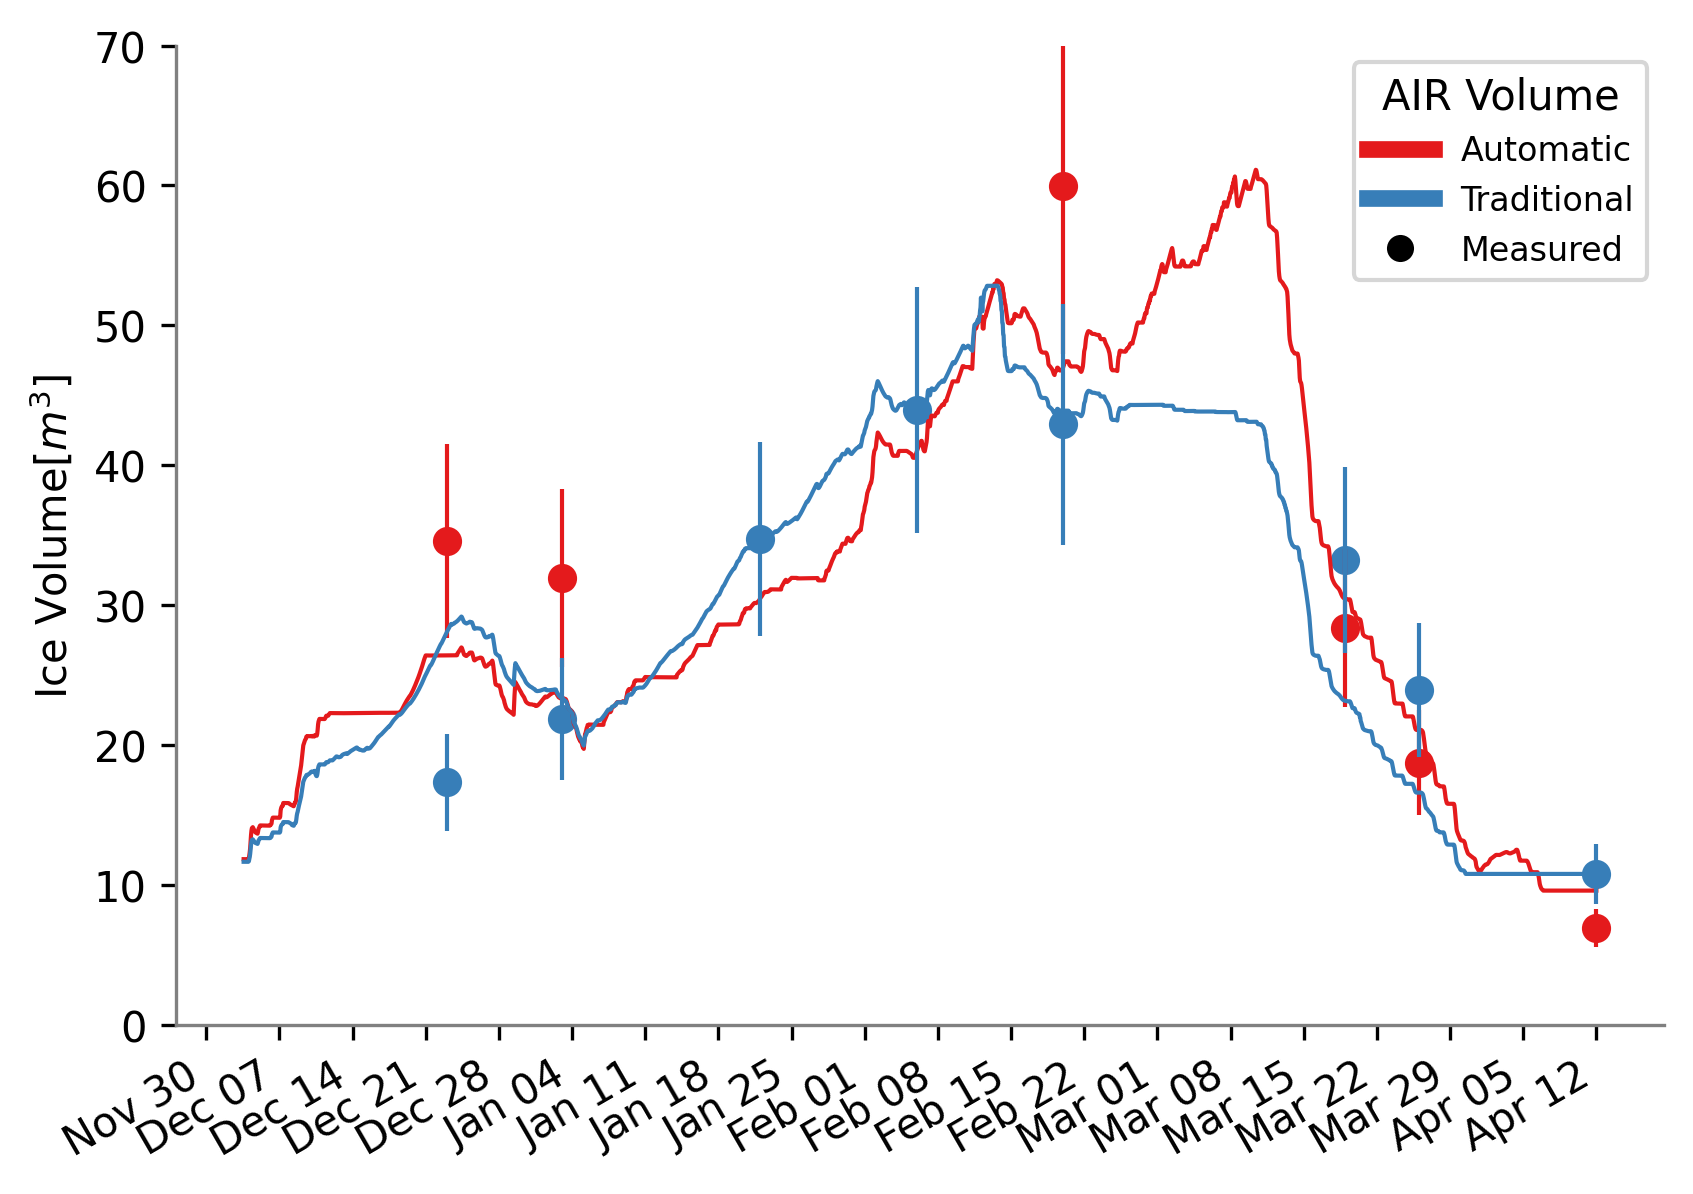
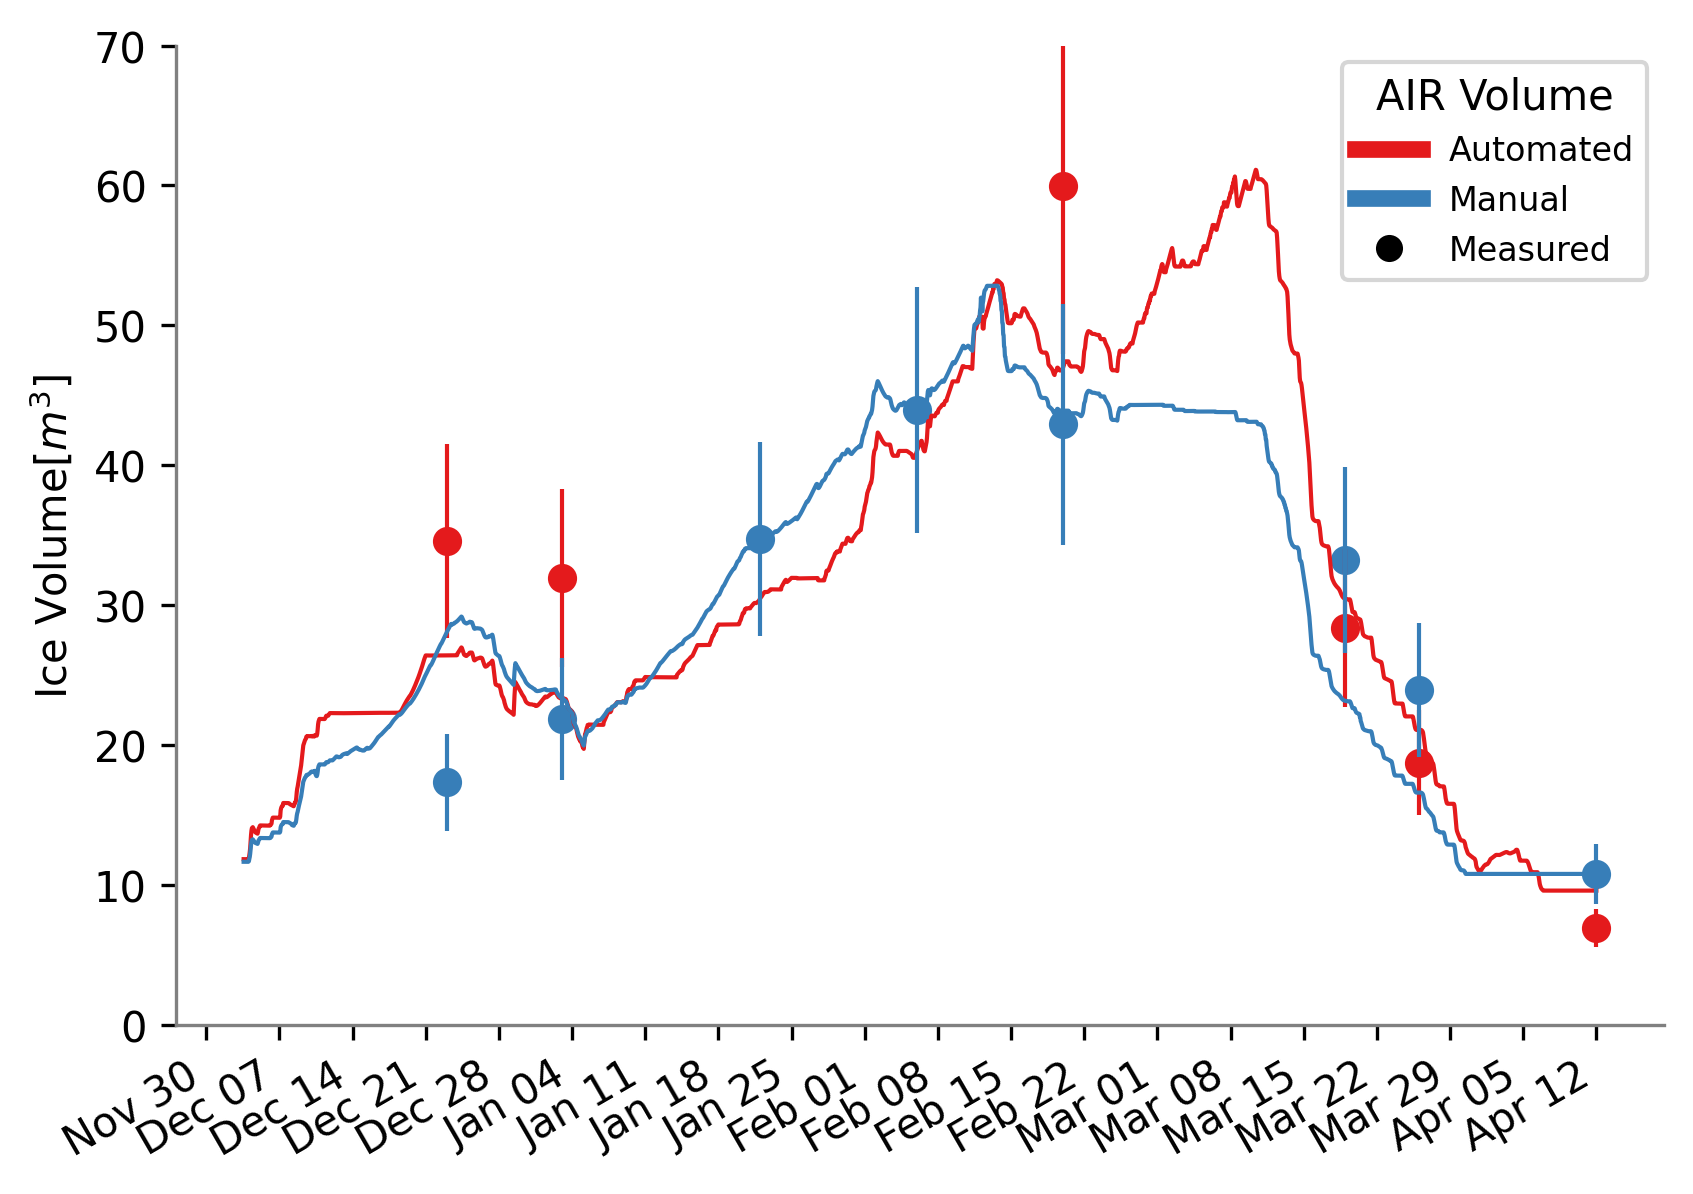
Changed Traditional to manual

Changed region(s): [[0.7679, 0.062, 0.9829, 0.2169]]

diff --git a/ice-reservoirs/content/chapter4-technology.tex b/ice-reservoirs/content/chapter4-technology.tex
@@ -18,7 +18,7 @@ high-altitude glaciers. This results in increased demand during a period of redu
 agricultural season.
 
 These trends stress the importance of increased water storage capacity for glacierized catchments as a pathway
-for climate adaptation. Because of the challenges and cost related to traditional storage efforts, AIRs can be
+for climate adaptation. Because of the challenges and cost related to manual storage efforts, AIRs can be
 a better tool to adapt against reduced glacial runoff. 
 
 AIRs, located at much lower altitudes than naturally occuring glaciers, serve to bridge the critical gap in
@@ -183,7 +183,7 @@ enough might lead to underwatering and can cause reduced ice volume. The managem
 differs based on the type of the AIR used. The following analysis only considers the ice stupa
 form of AIRs where water supply management can also be referred to as fountain scheduling.
 
-Paper I has shown that traditional ice stupa construction systems suffer from overwatering. For example, in
+Paper I has shown that manual ice stupa construction systems suffer from overwatering. For example, in
 Indian AIRs, the fountain discharge rate could theoretically be halved since it is always twice as high as the
 modelled freezing rate. However, in practice, the reduction of discharge rate could increase maintenance costs
 due to higher risk of freezing events in the fountain pipeline.
@@ -199,7 +199,7 @@ of scheduled fountains via automation systems is preferred to reduce long-term m
 hardware used to implement such an automation system is described in paper II.
 
 This section aims to compare the water-use efficiency, maximum ice volume and maintenance effort between
-traditional and automated construction strategies. First, two AIRs were built in the same location but with and
+manual and automated construction strategies. First, two AIRs were built in the same location but with and
 without automated fountain scheduling strategies; both were measured and compared (Fig. \ref{fig:autovsman}).
 The associated datasets and the methods used to analyze them are described in paper II. In a second step,
 differences in construction strategies between the Indian and Swiss AIRs studied in previous winters were quantified
@@ -207,7 +207,7 @@ using model simulations.
 
 \begin{figure}[htb]
 	\includegraphics[width=\textwidth]{figs/AIR_fountains.jpg}
-	\caption{Unscheduled and scheduled fountains used for construction of traditional and automated AIRs at
+	\caption{Unscheduled and scheduled fountains used for construction of manual and automated AIRs at
 		Guttannen. Photo: Daniel Bürki.}
 	\label{fig:autovsman}
 \end{figure}
@@ -273,14 +273,14 @@ freezing events:
 
 \end{itemize}
 
-\subsection{Comparison of traditional and automated construction strategies}
+\subsection{Comparison of manual and automated construction strategies}
 
 \begin{figure*}[htb] \includegraphics[width=\textwidth] {figs/CH_validation.png} \caption{Volume validation of the
 		scheduled and unscheduled fountain construction strategies.} \label{fig:validation} \end{figure*}
 
 Fountain scheduling reduced the fountain discharge input and fountain wastewater output by an order of
 magnitude. However, this does not result in an appreciable difference in the volume evolution of the automated
-or traditional AIR, as shown in Fig. \ref{fig:validation}. This is due to two counteracting surface processes
+or manual AIR, as shown in Fig. \ref{fig:validation}. This is due to two counteracting surface processes
 during fountain spray: process A consists in the dampening of albedo to ice albedo and process B consists in the
 absorption of heat energy from the fountain water droplets. The temporal variation of the magnitude of these
 processes is shown in Fig. \ref{fig:dis_processes}.
@@ -324,6 +324,6 @@ the fountain pipeline. Therefore, the discharge duration of the unscheduled foun
 lower ice volume. The water-sensitive fountain underestimated the freezing rate during the construction period
 and therefore produced much lower ice volume compared with the weather-sensitive fountain.
 
-For the Swiss locations, scheduled fountains yielded better water-use efficiency but did not significantly alter the maximum
-volume obtained.
+For the Swiss locations, scheduled fountains yielded better water-use efficiency but did not significantly alter
+the maximum volume obtained.
 

diff --git a/ice-reservoirs/content/chapter3-science.tex b/ice-reservoirs/content/chapter3-science.tex
@@ -45,8 +45,8 @@ construction strategy used, prefix of the country code and the suffix of the yea
 (Tab. \ref{tab:AIRs}). The construction strategies are distinguished based on whether they used fountain scheduling
 strategies to regulate water supply. Fountain scheduling was realized through a control valve that was automated
 with optimal discharge rates computed using real-time meteorological input and location metadata. Those that did were
-codenamed "automated" whereas the rest were codenamed "traditional". All except one construction campaign used
-traditional construction strategies. Therefore, traditional \ac{AIRs} are referred to without explicitly
+codenamed "automated" whereas the rest were codenamed "manual". All except one construction campaign used
+manual construction strategies. Therefore, manual \ac{AIRs} are referred to without explicitly
 specifying their construction strategy.
 
 In total, 23 \ac{AIRs} were studied in these two regions across four winters.  However, only four \ac{AIRs} located in
@@ -140,10 +140,10 @@ the observed ice radius formed from the fountain water droplets is denoted as sp
 		\hline
 		\textbf{Name}    & \textbf{Start Date} & \textbf{Expiry Date} & \textbf{No. of flights} & \textbf{Spray
 		radius}                                                                                                 \\ \hline
-		Traditional CH20 & Jan 3 2020          & Apr 6 2020           & 2                       & 7.7 $m$       \\
-		Traditional CH21 & Nov 22 2020         & May 10 2021          & 8                       & 6.9 $m$       \\
-		Traditional IN21 & Jan 18 2021         & June 20 2021         & 6                       & 10.2 $m$      \\
-		Traditional CH22 & Dec 8 2021          & April 12 2022        & 8                       & 4.1 $m$       \\
+		Manual CH20 & Jan 3 2020          & Apr 6 2020           & 2                       & 7.7 $m$       \\
+		Manual CH21 & Nov 22 2020         & May 10 2021          & 8                       & 6.9 $m$       \\
+		Manual IN21 & Jan 18 2021         & June 20 2021         & 6                       & 10.2 $m$      \\
+		Manual CH22 & Dec 8 2021          & April 12 2022        & 8                       & 4.1 $m$       \\
 		Automated CH22   & Dec 8 2021          & April 12 2022        & 6                       & 4.8 $m$       \\ \hline
 	\end{tabular}
 \end{table}
@@ -258,7 +258,7 @@ Upward and downward fluxes relative to the ice surface are positive and negative
 is the energy change of the surface layer, which can be translated into a phase change energy should phase
 changes occur. $q_{SW}$ is the net shortwave radiation; $q_{LW}$ is the net longwave radiation; $q_{L}$ and
 $q_{S}$ are the turbulent latent and sensible heat fluxes. $q_{F}$ and $q_{R}$ represent the heat exchange of
-the fountain water droplets and rain droplets with the AIR ice surface respectively. $q_{G}$ represents ground
+the fountain water droplets and rain droplets with the AIR ice surface respectively. $q_{G}$ represents bulk
 heat flux between the AIR surface and its interior.
 
 The energy flux acts upon the AIR surface layer, which has an upper and lower boundary defined by the atmosphere
@@ -411,9 +411,9 @@ the heat flux generated due to a rain event was determined:
 	\label{eqn:qR}
 \end{equation}
 
-\subsubsection{Bulk ice stupa heat flux \texorpdfstring{$q_{G}$}{Lg}} \label{sec:Bulkflux}
+\subsubsection{Bulk heat flux \texorpdfstring{$q_{G}$}{Lg}} \label{sec:Bulkflux}
 
-The bulk ice stupa heat flux $q_{G}$ corresponds to the ground heat flux in normal soils and is caused by the
+The bulk heat flux $q_{G}$ corresponds to the ground heat flux in normal soils and is caused by the
 temperature gradient between the surface layer ($T_{ice}$) and the ice body ($T_{bulk}$). It is expressed by
 using the heat conduction equation as follows:
 

diff --git a/ice-reservoirs/content/chapter6-heritage.tex b/ice-reservoirs/content/chapter6-heritage.tex
@@ -266,8 +266,8 @@ water supply can be performed using the criterions below:
 
 \subsubsection{New ways to upscale irrigation water supply}
 
-In this section, two hypothetical ice stupa construction scenarios namely, historical and
-futuristic are described. The historical scenario is a depiction of current construction efforts based on oral interviews and
+In this section, two hypothetical ice stupa construction scenarios namely, historical and futuristic are
+described. The historical scenario is a depiction of current construction efforts based on oral interviews and
 field experience. The futuristic scenario is a depiction of how the tools developed in the \textit{Technology}
 chapter can transform current construction efforts. The objective of both the scenarios is to maximize the
 meltwater available for irrigation. Both these scenarios are motivated by the construction campaigns conducted

diff --git a/ice-reservoirs/content/chapter1-introduction.tex b/ice-reservoirs/content/chapter1-introduction.tex
@@ -171,7 +171,7 @@ Three process-based models for ice stupas were designed to answer the first rese
 
 To answer this question, a new construction strategy was developed using an automation system. The automation
     hardware incorporated the models developed to regulate fountain discharge rate. The description of the
-    automation system and the advantages over traditional construction strategies are presented in the
+    automation system and the advantages over manual construction strategies are presented in the
     \textit{Technology} chapter.
 
 \end{enumerate}
